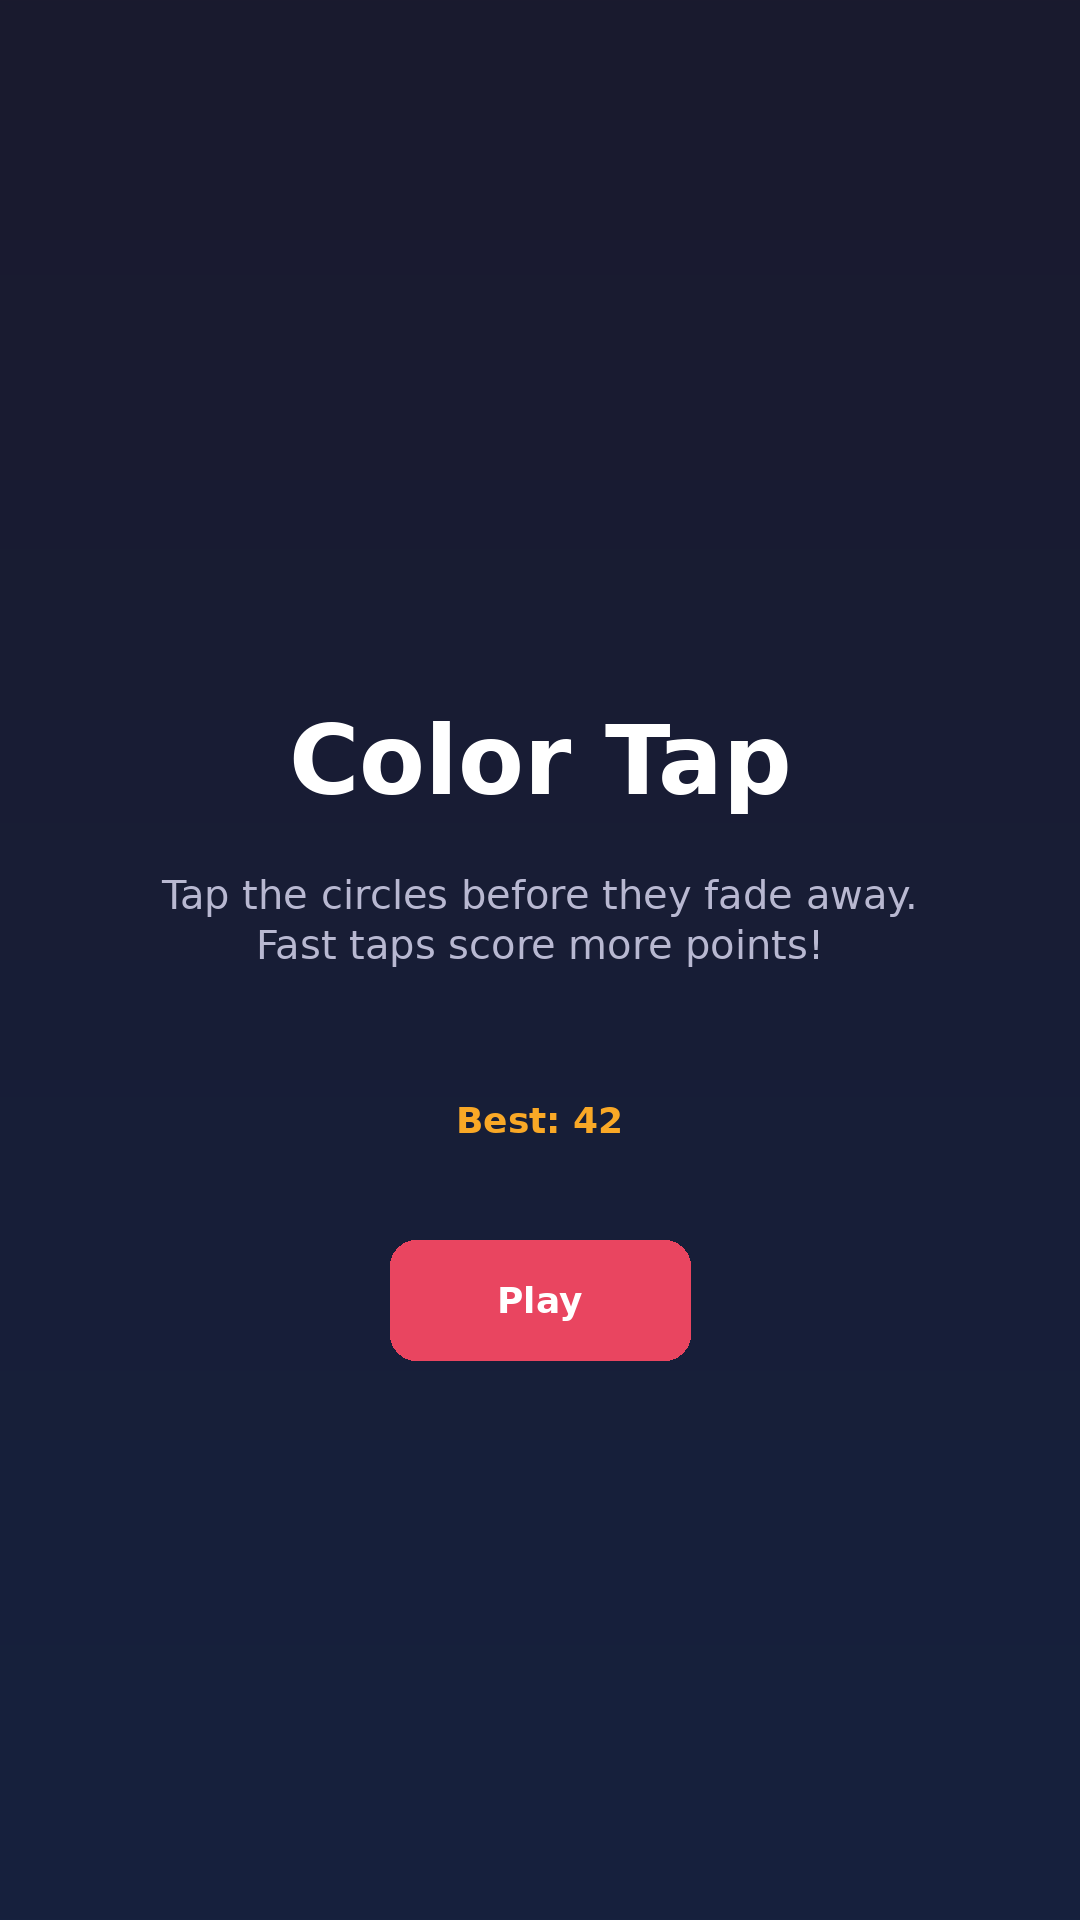
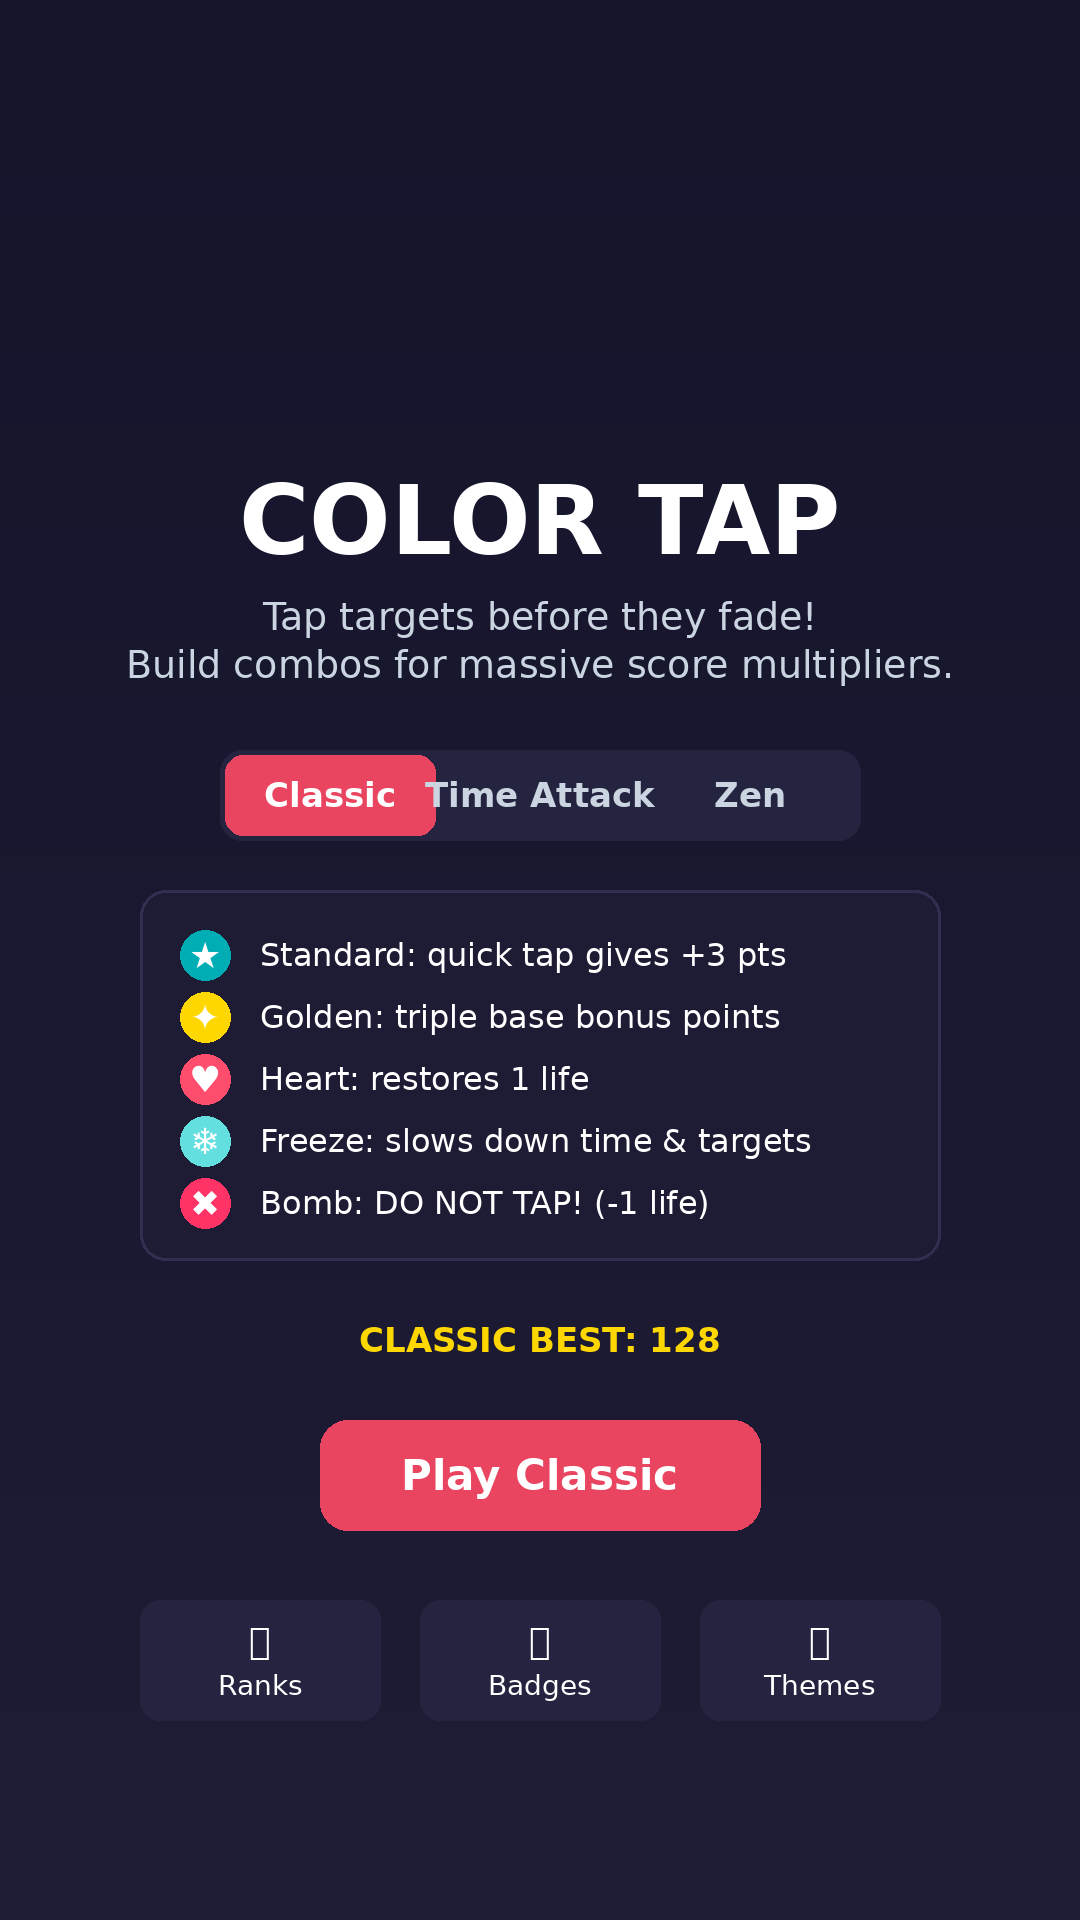
Update store assets, launch guides, and release notes for v1.1.3 launch

diff --git a/docs/privacy-policy.html b/docs/privacy-policy.html
@@ -20,7 +20,7 @@
 <body>
   <h1>Privacy Policy</h1>
   <p><strong>App name:</strong> Color Tap</p>
-  <p><strong>Last updated:</strong> September 7, 2026</p>
+  <p><strong>Last updated:</strong> September 13, 2026</p>
 
   <p>
     Color Tap is a simple offline arcade game. We respect your privacy and designed
@@ -50,7 +50,7 @@
 
   <h2>Data stored on your device</h2>
   <p>
-    Your best score and ad frequency counter are stored locally on your device using
+    Your best scores, local leaderboards, unlocked achievements, selected themes, and ad frequency counter are stored locally on your device using
     Android shared preferences. This data is not sent to our servers.
   </p>
 

diff --git a/scripts/generate-store-assets.py b/scripts/generate-store-assets.py
@@ -7,13 +7,15 @@ from pathlib import Path
 OUT = Path(__file__).resolve().parent.parent / "store-assets"
 OUT.mkdir(parents=True, exist_ok=True)
 
-BG = "#1A1A2E"
-BG2 = "#16213E"
+BG = "#14142B"
+BG2 = "#1F1D36"
 ACCENT = "#E94560"
-GOLD = "#F9A826"
+GOLD = "#FFD700"
 WHITE = "#FFFFFF"
-MUTED = "#B8B8D1"
-COLORS = ["#E94560", "#16C79A", "#F9A826", "#7B2CBF", "#00B4D8"]
+MUTED = "#CBD5E1"
+CYAN = "#00ADB5"
+EMERALD = "#38EF7D"
+COLORS = ["#E94560", "#00ADB5", "#38EF7D", "#FFD700", "#9D4EDD", "#FF007F"]
 
 
 def gradient_bg(img: Image.Image, top: str, bottom: str) -> None:
@@ -42,8 +44,23 @@ def load_font(size: int, bold: bool = False) -> ImageFont.FreeTypeFont | ImageFo
     return ImageFont.load_default()
 
 
-def draw_circle(draw: ImageDraw.ImageDraw, x: int, y: int, r: int, color: str) -> None:
-    draw.ellipse((x - r, y - r, x + r, y + r), fill=color)
+def draw_target(draw: ImageDraw.ImageDraw, x: int, y: int, r: int, fill: str, border: str, symbol: str, font: ImageFont.ImageFont) -> None:
+    draw.ellipse((x - r, y - r, x + r, y + r), fill=fill, outline=border, width=5)
+    draw.text((x, y), symbol, fill=WHITE, font=font, anchor="mm")
+
+
+def play_store_icon() -> Image.Image:
+    img = Image.new("RGB", (512, 512))
+    gradient_bg(img, "#14142B", "#1F1D36")
+    draw = ImageDraw.Draw(img)
+    f_sym = load_font(130, True)
+
+    # Concentric outer rings
+    draw.ellipse((56, 56, 456, 456), outline="#33FFFFFF", width=4)
+    draw.ellipse((96, 96, 416, 416), fill="#E94560", outline="#FFD700", width=8)
+    draw.ellipse((166, 166, 346, 346), fill="#14142B")
+    draw.text((256, 256), "★", fill="#FFD700", font=f_sym, anchor="mm")
+    return img
 
 
 def screenshot_menu() -> Image.Image:
@@ -51,22 +68,64 @@ def screenshot_menu() -> Image.Image:
     gradient_bg(img, BG, BG2)
     draw = ImageDraw.Draw(img)
     title = load_font(96, True)
-    body = load_font(40)
-    small = load_font(36, True)
+    body = load_font(38)
+    small = load_font(34, True)
+    sub = load_font(28)
 
-    draw.text((540, 760), "Color Tap", fill=WHITE, font=title, anchor="mm")
+    draw.text((540, 520), "COLOR TAP", fill=WHITE, font=title, anchor="mm")
     draw.multiline_text(
-        (540, 920),
-        "Tap the circles before they fade away.\nFast taps score more points!",
+        (540, 640),
+        "Tap targets before they fade!\nBuild combos for massive score multipliers.",
         fill=MUTED,
         font=body,
         anchor="mm",
         align="center",
         spacing=12,
     )
-    draw.text((540, 1120), "Best: 42", fill=GOLD, font=small, anchor="mm")
-    draw.rounded_rectangle((390, 1240, 690, 1360), radius=26, fill=ACCENT)
-    draw.text((540, 1300), "Play", fill=WHITE, font=small, anchor="mm")
+
+    # Mode selector pill
+    draw.rounded_rectangle((220, 750, 860, 840), radius=22, fill="#252440")
+    draw.rounded_rectangle((225, 755, 435, 835), radius=18, fill=ACCENT)
+    draw.text((330, 795), "Classic", fill=WHITE, font=small, anchor="mm")
+    draw.text((540, 795), "Time Attack", fill=MUTED, font=small, anchor="mm")
+    draw.text((750, 795), "Zen", fill=MUTED, font=small, anchor="mm")
+
+    # Legend Card
+    draw.rounded_rectangle((140, 890, 940, 1260), radius=26, fill="#1D1C34", outline="#302F52", width=3)
+    f_item = load_font(32)
+    f_icon = load_font(36, True)
+
+    legend_items = [
+        ("★", CYAN, "Standard: quick tap gives +3 pts"),
+        ("✦", GOLD, "Golden: triple base bonus points"),
+        ("♥", "#FF4D6D", "Heart: restores 1 life"),
+        ("❄", "#64DFDF", "Freeze: slows down time & targets"),
+        ("✖", "#FF3366", "Bomb: DO NOT TAP! (-1 life)"),
+    ]
+    y_start = 930
+    for sym, col, text in legend_items:
+        draw.ellipse((180, y_start, 230, y_start + 50), fill=col)
+        draw.text((205, y_start + 25), sym, fill=WHITE, font=f_icon, anchor="mm")
+        draw.text((260, y_start + 25), text, fill=WHITE, font=f_item, anchor="lm")
+        y_start += 62
+
+    draw.text((540, 1340), "CLASSIC BEST: 128", fill=GOLD, font=small, anchor="mm")
+    draw.rounded_rectangle((320, 1420, 760, 1530), radius=28, fill=ACCENT)
+    draw.text((540, 1475), "Play Classic", fill=WHITE, font=load_font(42, True), anchor="mm")
+
+    # Navigation cards
+    draw.rounded_rectangle((140, 1600, 380, 1720), radius=20, fill="#252440")
+    draw.text((260, 1640), "🏆", font=f_icon, anchor="mm")
+    draw.text((260, 1685), "Ranks", fill=WHITE, font=sub, anchor="mm")
+
+    draw.rounded_rectangle((420, 1600, 660, 1720), radius=20, fill="#252440")
+    draw.text((540, 1640), "🏅", font=f_icon, anchor="mm")
+    draw.text((540, 1685), "Badges", fill=WHITE, font=sub, anchor="mm")
+
+    draw.rounded_rectangle((700, 1600, 940, 1720), radius=20, fill="#252440")
+    draw.text((820, 1640), "🎨", font=f_icon, anchor="mm")
+    draw.text((820, 1685), "Themes", fill=WHITE, font=sub, anchor="mm")
+
     return img
 
 
@@ -74,13 +133,38 @@ def screenshot_gameplay() -> Image.Image:
     img = Image.new("RGB", (1080, 1920))
     gradient_bg(img, BG, BG2)
     draw = ImageDraw.Draw(img)
-    hud = load_font(42, True)
-    draw.text((80, 120), "Score: 18", fill=WHITE, font=hud)
-    draw.text((920, 120), "♥♥♥", fill=ACCENT, font=hud)
 
-    positions = [(280, 620, 90), (760, 780, 75), (520, 1050, 85), (180, 1180, 70)]
-    for i, (x, y, r) in enumerate(positions):
-        draw_circle(draw, x, y, r, COLORS[i % len(COLORS)])
+    hud_score = load_font(58, True)
+    hud_multi = load_font(40, True)
+    hud_combo = load_font(30, True)
+    hud_hearts = load_font(46, True)
+    f_sym = load_font(44, True)
+
+    # HUD
+    draw.text((80, 100), "84", fill=WHITE, font=hud_score)
+    draw.text((165, 110), "3x", fill=GOLD, font=hud_multi)
+    draw.text((80, 165), "COMBO 14", fill=CYAN, font=hud_combo)
+    draw.text((820, 110), "♥♥♥♡♡", fill="#FF4D6D", font=hud_hearts)
+
+    # Freeze & Fever badges
+    draw.rounded_rectangle((80, 215, 340, 265), radius=10, fill="#20404C")
+    draw.text((210, 240), "❄ FROZEN 3s", fill="#64DFDF", font=load_font(26, True), anchor="mm")
+
+    # Target circles
+    targets = [
+        (320, 680, 85, "#E94560", WHITE, "★"),
+        (760, 790, 85, GOLD, "#FFFF00", "✦"),
+        (480, 1100, 90, "#64DFDF", "#E0F7FA", "❄"),
+        (220, 1340, 85, "#222222", "#FF1744", "✖"),
+        (820, 1280, 85, "#38EF7D", WHITE, "★"),
+    ]
+    for x, y, r, fill, border, sym in targets:
+        draw_target(draw, x, y, r, fill, border, sym, f_sym)
+
+    # Popups
+    draw.text((760, 710), "+9 (3x)", fill=GOLD, font=load_font(34, True), anchor="mm")
+    draw.text((480, 1010), "+6 ❄ FREEZE", fill="#64DFDF", font=load_font(32, True), anchor="mm")
+
     return img
 
 
@@ -88,16 +172,44 @@ def screenshot_game_over() -> Image.Image:
     img = Image.new("RGB", (1080, 1920))
     gradient_bg(img, BG, BG2)
     draw = ImageDraw.Draw(img)
-    title = load_font(88, True)
-    score = load_font(56, True)
-    small = load_font(40, True)
-    btn = load_font(36, True)
 
-    draw.text((540, 760), "Game Over", fill=ACCENT, font=title, anchor="mm")
-    draw.text((540, 900), "Score: 31", fill=WHITE, font=score, anchor="mm")
-    draw.text((540, 990), "Best: 42", fill=GOLD, font=small, anchor="mm")
-    draw.rounded_rectangle((360, 1140, 720, 1260), radius=26, fill=ACCENT)
-    draw.text((540, 1200), "Play Again", fill=WHITE, font=btn, anchor="mm")
+    title = load_font(84, True)
+    score_f = load_font(90, True)
+    sub = load_font(34, True)
+    row_f = load_font(32)
+
+    draw.text((540, 480), "GAME OVER", fill="#FF4D6D", font=title, anchor="mm")
+    draw.text((540, 560), "CLASSIC MODE", fill="#90A4AE", font=load_font(28, True), anchor="mm")
+    draw.text((540, 680), "128", fill=WHITE, font=score_f, anchor="mm")
+    draw.text((540, 770), "NEW HIGH SCORE!", fill=GOLD, font=sub, anchor="mm")
+
+    # Achievement unlocked card
+    draw.rounded_rectangle((160, 840, 920, 950), radius=20, fill="#3D3200", outline=GOLD, width=3)
+    draw.text((540, 875), "🎖 ACHIEVEMENT UNLOCKED!", fill=GOLD, font=load_font(28, True), anchor="mm")
+    draw.text((540, 915), "⚡ Combo Master: Reach a 20x combo streak", fill=WHITE, font=load_font(24), anchor="mm")
+
+    # Stats card
+    draw.rounded_rectangle((160, 990, 920, 1420), radius=22, fill="#1D1C34", outline="#302F52", width=3)
+    stats = [
+        ("Total Taps", "68"),
+        ("Perfect Taps (3 pts)", "34"),
+        ("Highest Combo", "22x"),
+        ("Freeze Hits", "5"),
+        ("Armor Broken", "3"),
+        ("Missed Targets", "3"),
+    ]
+    y_pos = 1040
+    for label, val in stats:
+        draw.text((210, y_pos), label, fill=MUTED, font=row_f, anchor="lm")
+        draw.text((870, y_pos), val, fill=WHITE, font=load_font(32, True), anchor="rm")
+        y_pos += 60
+
+    draw.rounded_rectangle((280, 1480, 800, 1590), radius=28, fill=ACCENT)
+    draw.text((540, 1535), "Play Again", fill=WHITE, font=load_font(38, True), anchor="mm")
+
+    draw.rounded_rectangle((280, 1620, 800, 1720), radius=28, outline=WHITE, width=2)
+    draw.text((540, 1670), "Main Menu", fill=WHITE, font=load_font(34, True), anchor="mm")
+
     return img
 
 
@@ -109,30 +221,32 @@ def feature_graphic() -> Image.Image:
     title = load_font(84, True)
     subtitle = load_font(34)
     tagline = load_font(26)
+    f_sym = load_font(32, True)
 
-    draw.text((72, 148), "Color Tap", fill=WHITE, font=title)
-    draw.text((72, 248), "Fast reflex arcade fun", fill=MUTED, font=subtitle)
-    draw.text((72, 310), "Tap the circles. Beat your best score.", fill=GOLD, font=tagline)
+    draw.text((72, 130), "Color Tap", fill=WHITE, font=title)
+    draw.text((72, 230), "Fast-reflex arcade tap action", fill=MUTED, font=subtitle)
+    draw.text((72, 290), "Combos • 3 Modes • Power-ups • Achievements", fill=GOLD, font=tagline)
 
-    draw.rounded_rectangle((72, 368, 290, 428), radius=22, fill=ACCENT)
-    draw.text((181, 398), "Play Free", fill=WHITE, font=tagline, anchor="mm")
+    draw.rounded_rectangle((72, 350, 310, 415), radius=22, fill=ACCENT)
+    draw.text((191, 382), "Play Free", fill=WHITE, font=load_font(30, True), anchor="mm")
 
+    # Illustrated circles on right
     circle_specs = [
-        (720, 170, 58, COLORS[0]),
-        (860, 120, 44, COLORS[2]),
-        (930, 250, 52, COLORS[3]),
-        (790, 310, 38, COLORS[4]),
-        (880, 360, 46, COLORS[1]),
-        (650, 280, 34, COLORS[0]),
+        (710, 150, 58, "#E94560", WHITE, "★"),
+        (860, 120, 48, GOLD, "#FFFF00", "✦"),
+        (930, 240, 54, "#64DFDF", "#E0F7FA", "❄"),
+        (780, 290, 44, "#FF4D6D", WHITE, "♥"),
+        (880, 370, 52, "#38EF7D", WHITE, "★"),
+        (650, 310, 40, CYAN, WHITE, "★"),
     ]
-    for x, y, r, color in circle_specs:
-        draw_circle(draw, x, y, r, color)
-        draw_circle(draw, x, y, max(r // 3, 10), "#FFFFFF")
+    for x, y, r, fill, border, sym in circle_specs:
+        draw_target(draw, x, y, r, fill, border, sym, f_sym)
 
     return img
 
 
 def main() -> None:
+    play_store_icon().save(OUT / "play-store-icon-512.png")
     screenshot_menu().save(OUT / "screenshot-01-menu.png")
     screenshot_gameplay().save(OUT / "screenshot-02-gameplay.png")
     screenshot_game_over().save(OUT / "screenshot-03-game-over.png")

diff --git a/LAUNCH.md b/LAUNCH.md
@@ -1,19 +1,19 @@
 # Color Tap — Play Store launch guide
 
-Everything you need to submit **Color Tap v1.1.2** to Google Play.
+Everything you need to submit **Color Tap v1.1.3** to Google Play.
 
 ## Status
 
 | Item | Status |
 |------|--------|
-| Signed release AAB build | Ready |
+| Signed release AAB build | Ready (`app/build/outputs/bundle/release/app-release.aab`) |
 | Privacy policy URL | https://windedupbird-sys.github.io/droid-play/privacy-policy.html |
 | Store icon (512×512) | `store-assets/play-store-icon-512.png` |
-| Feature graphic | `store-assets/feature-graphic-1024x500.png` |
-| Screenshots (3) | `store-assets/screenshot-*.png` |
+| Feature graphic (1024×500) | `store-assets/feature-graphic-1024x500.png` |
+| Screenshots (3) | `store-assets/screenshot-01-menu.png`, `screenshot-02-gameplay.png`, `screenshot-03-game-over.png` |
 | Listing copy | `store-listing/` folder |
-| High score persistence | Done |
-| AdMob integration | Done (add your real IDs before production) |
+| Keystore & Signing Config | Generated (`colortap-release.keystore`, alias `colortap`) |
+| AdMob integration | Ready (test IDs built-in; add your production IDs in `admob.properties`) |
 | Target SDK 36 | Done |
 
 ## Before you submit (required)

diff --git a/DATA_SAFETY.md b/DATA_SAFETY.md
@@ -29,7 +29,8 @@ However, you must disclose that **third-party advertising (Google AdMob)** may c
 
 ## Data stored locally on device
 
-- **High score** — stored in app preferences, not transmitted
+- **High scores and local leaderboards** — stored in app preferences on device, not transmitted
+- **Unlocked achievements and selected themes** — stored locally on device
 - **Games completed counter** — used for ad frequency, stored locally
 
 ## Third-party SDK: Google AdMob

diff --git a/PLAY_STORE.md b/PLAY_STORE.md
@@ -52,11 +52,11 @@ app/build/outputs/bundle/release/app-release.aab
 Or create a GitHub release tag to build it in CI:
 
 ```bash
-git tag v1.0.1
-git push github v1.0.1
+git tag v1.1.3
+git push origin v1.1.3
 ```
 
-The workflow uploads `ColorTap.aab` to GitHub Releases.
+The workflow uploads `ColorTap.aab` and `ColorTap.apk` to GitHub Releases.
 
 ## 5. Enable GitHub Pages for the privacy policy
 
